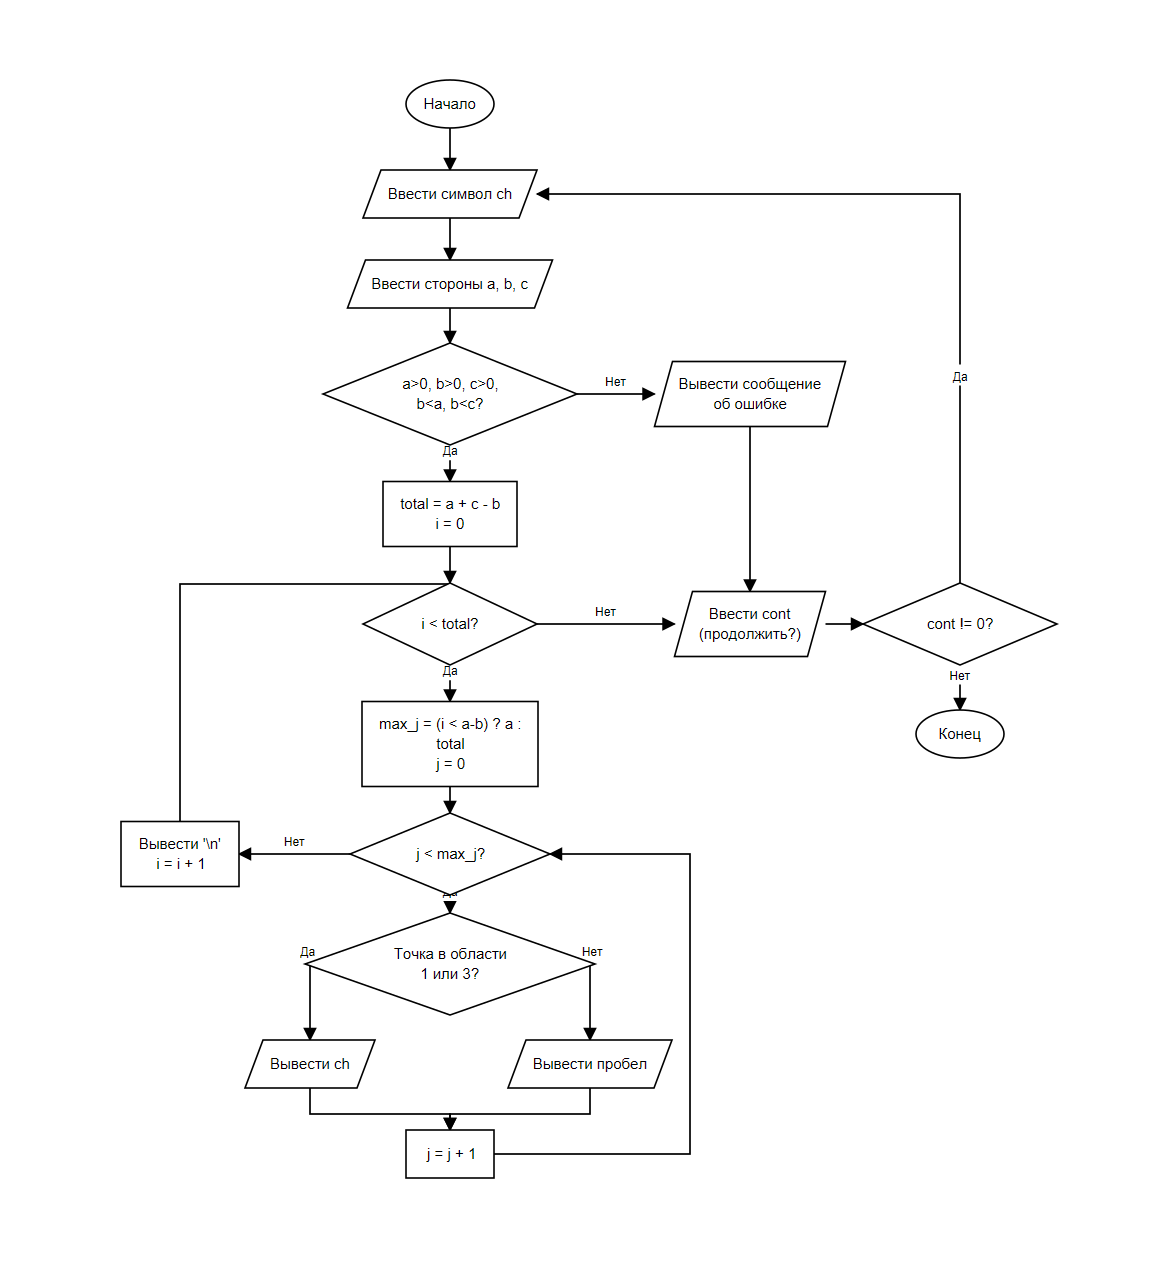
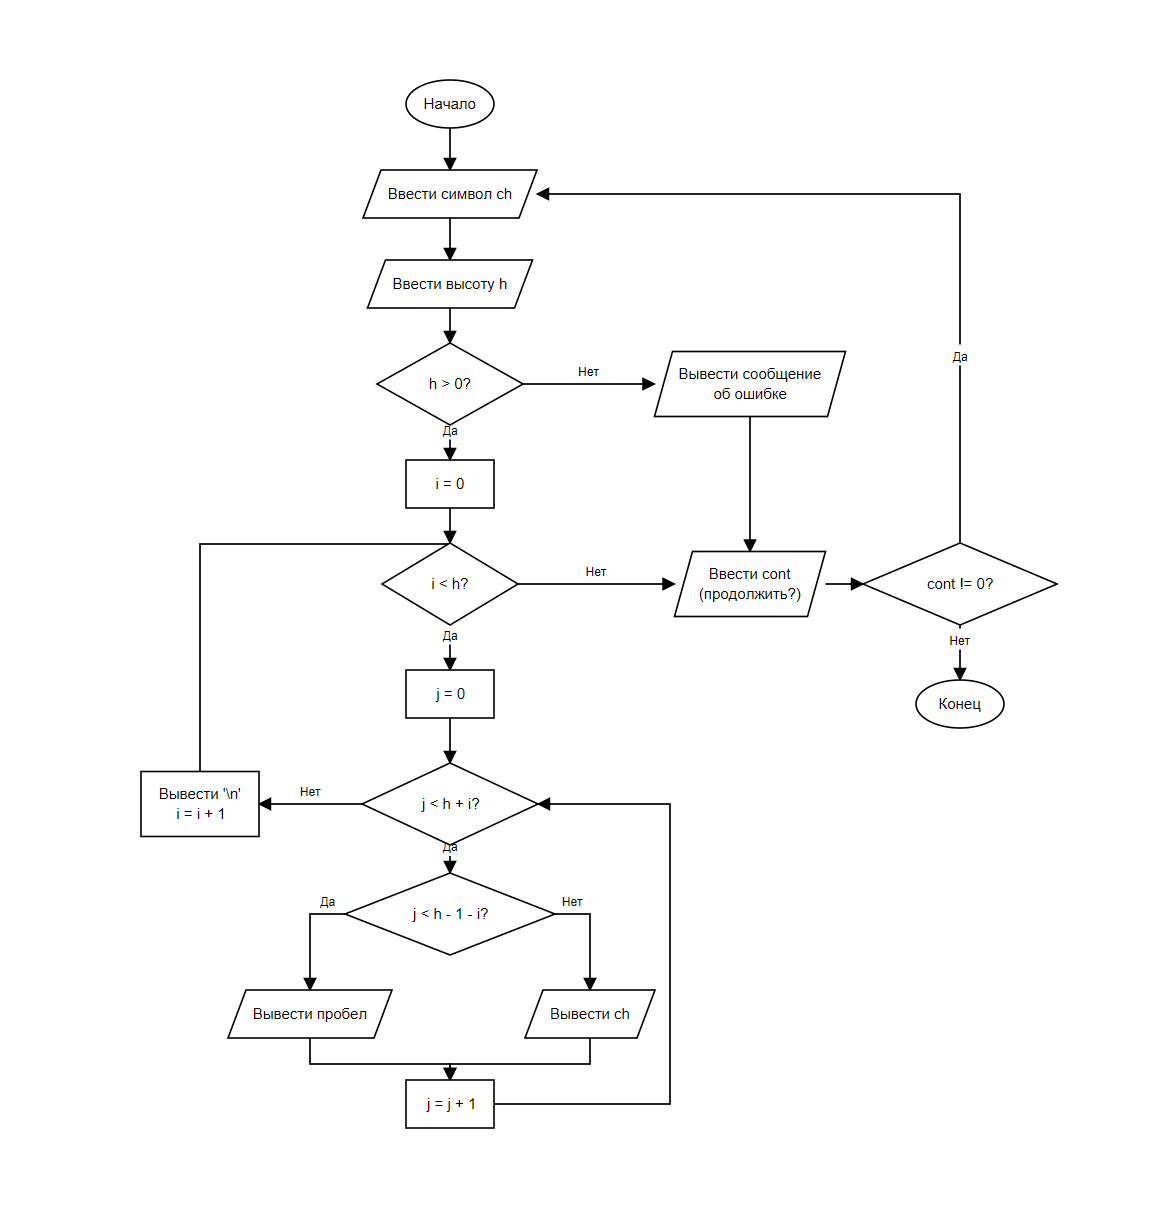
Переделка ДЗ 9: отрисовка треугольной фигуры из лаб. 6 (Вариант 2)

diff --git a/README.md b/README.md
@@ -2,11 +2,11 @@
 
 ## Условие задачи (Вариант 2)
 
-Написать программу, выводящую на экран заданную геометрическую фигуру «Два квадрата», нарисованную с помощью заданного с клавиатуры символа.
+Написать программу, выводящую на экран заданную в **ДЗ к лабораторной работе № 6** геометрическую фигуру «Равнобедренный треугольник» (ограниченную прямыми $y_1 = x + 4$, $y_2 = -x + 4$ и осью $Ox$), нарисованную с помощью заданного с клавиатуры символа.
 
-Предусмотреть возможность изменения размеров фигуры путем задания ее размеров пользователем (сторона 1, сторона 2 и сторона 3). Область пересечения квадратов должна оставаться пустой.
+Предусмотреть возможность изменения размеров фигуры путем задания пользователем ее высоты $h$ (в количестве строк/символов).
 
-Обеспечить повторение выполнения программы в цикле `do-while` до тех пор, пока пользователь не захочет ее завершить.
+Обеспечить повторение выполнения программы в цикле с постусловием `do-while` до тех пор, пока пользователь не захочет ее завершить.
 
 ---
 
@@ -17,20 +17,19 @@
 1. Настроить русскую локализацию для корректного вывода сообщений.
 2. Организовать цикл с постусловием `do-while` для возможности многократного выполнения программы.
 3. Запросить у пользователя и считать символ `ch`, из которого будет строиться фигура.
-4. Запросить и считать размеры фигуры: `a` (сторона первого квадрата), `b` (сторона области пересечения), `c` (сторона второго квадрата).
-5. Проверить корректность введенных размеров: стороны должны быть больше нуля, а сторона пересечения `b` должна быть строго меньше сторон обоих квадратов (`b < a` и `b < c`).
-6. Если размеры некорректны, вывести сообщение об ошибке и перейти к запросу продолжения работы.
-7. Если размеры корректны:
-   - рассчитать общие размеры области вывода: `total = a + c - b`;
+4. Запросить и считать высоту треугольника `h` (количество строк).
+5. Проверить корректность введенного размера: высота должна быть строго больше нуля (`h > 0`).
+6. Если высота некорректна, вывести сообщение об ошибке и перейти к запросу продолжения работы.
+7. Если высота корректна:
    - инициализировать счётчик строк `i = 0`;
-   - запустить внешний цикл по строкам (`i < total`):
-     - определить максимальный индекс столбца текущей строки `max_j = (i < a - b) ? a : total` и инициализировать счётчик столбцов `j = 0`;
-     - запустить вложенный цикл по столбцам (`j < max_j`):
-       - определить попадание в закрашенную область фигуры: если точка принадлежит первому либо второму квадрату, но не их пересечению (`in_sq1 ^ in_sq2`), вывести символ `ch`;
-       - иначе вывести пробел;
-       - увеличить `j = j + 1` и повторить шаг для следующего символа строки;
+   - запустить внешний цикл по строкам (`i < h`):
+     - инициализировать счётчик столбцов `j = 0`;
+     - запустить вложенный цикл по столбцам (`j < h + i`):
+       - проверить условие отступа: если `j < h - 1 - i`, вывести пробел `' '`;
+       - иначе вывести заданный символ фигуры `ch`;
+       - увеличить `j = j + 1` и повторить шаг для следующего символа;
      - после завершения строки вывести перевод строки `\n`, увеличить `i = i + 1` и перейти к следующей строке.
-8. Запросить у пользователя ввод признака продолжения работы (любое число — продолжить, 0 — завершить).
+8. Запросить у пользователя ввод признака продолжения работы (`cont`: любое число — продолжить, 0 — завершить).
 9. При вводе ненулевого значения повторить шаги с пункта 3, при вводе нуля завершить выполнение программы.
 
 ### Блок-схема
@@ -47,63 +46,48 @@
 
 ## 3. Результаты работы программы
 
-Пример 1 — квадраты со сторонами 4 и 4, перекрытие 2, символ `*`:
+Пример 1 — равнобедренный треугольник высотой 4 (как в ДЗ 6), символ `*`:
 
 ```
 Введите символ из которого будет строиться фигура:
 *
-Введите сторону 1:
+Введите высоту треугольника h:
 4
-Введите сторону 2:
-2
-Введите сторону 3:
-4
-Два квадрата:
-****
-****
-**  **
-**  **
-  ****
-  ****
+Равнобедренный треугольник (фигура из ДЗ 6):
+   *
+  ***
+ *****
+*******
 Продолжить ? (Да - введите любое число, Нет - введите 0)
 1
 ```
 
-Пример 2 — квадраты разных размеров (сторона 1 = 5, сторона 2 = 2, сторона 3 = 4, символ `#`):
+Пример 2 — изменение размера фигуры (высота 6, символ `#`):
 
 ```
 Введите символ из которого будет строиться фигура:
 #
-Введите сторону 1:
-5
-Введите сторону 2:
-2
-Введите сторону 3:
-4
-Два квадрата:
-#####
-#####
-#####
-###  ##
-###  ##
-   ####
-   ####
+Введите высоту треугольника h:
+6
+Равнобедренный треугольник (фигура из ДЗ 6):
+     #
+    ###
+   #####
+  #######
+ #########
+###########
 Продолжить ? (Да - введите любое число, Нет - введите 0)
 1
 ```
 
-Пример 3 — ввод некорректных размеров и завершение работы:
+Пример 3 — ввод некорректного размера и завершение работы:
 
 ```
 Введите символ из которого будет строиться фигура:
-*
-Введите сторону 1:
-3
-Введите сторону 2:
-3
-Введите сторону 3:
-4
-Ошибка: некорректные размеры фигуры.
+@
+Введите высоту треугольника h:
+0
+Ошибка: некорректный размер фигуры (высота должна быть больше нуля).
 Продолжить ? (Да - введите любое число, Нет - введите 0)
 0
 ```
